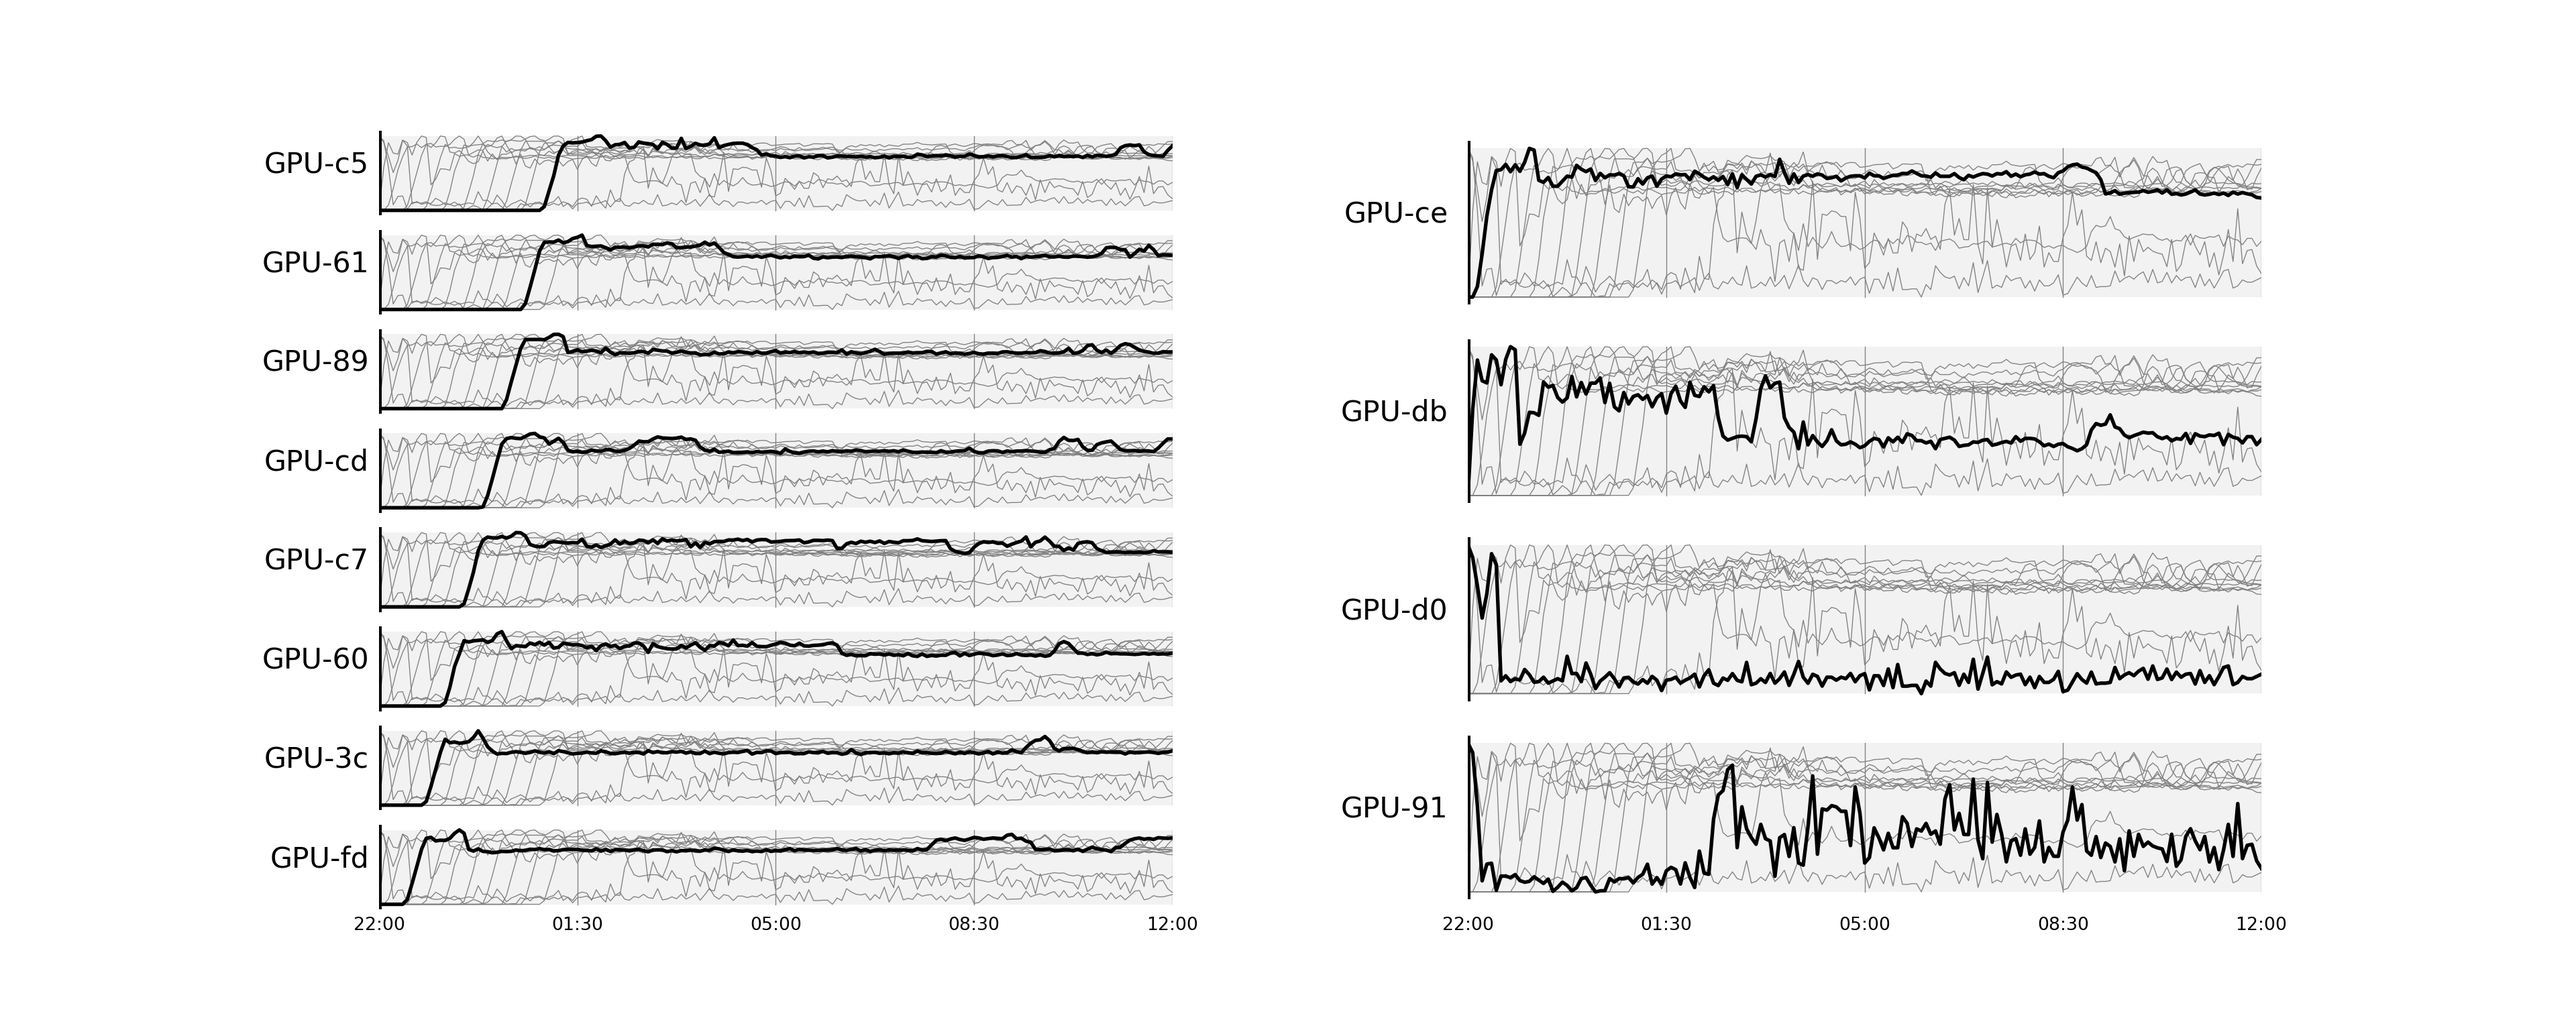
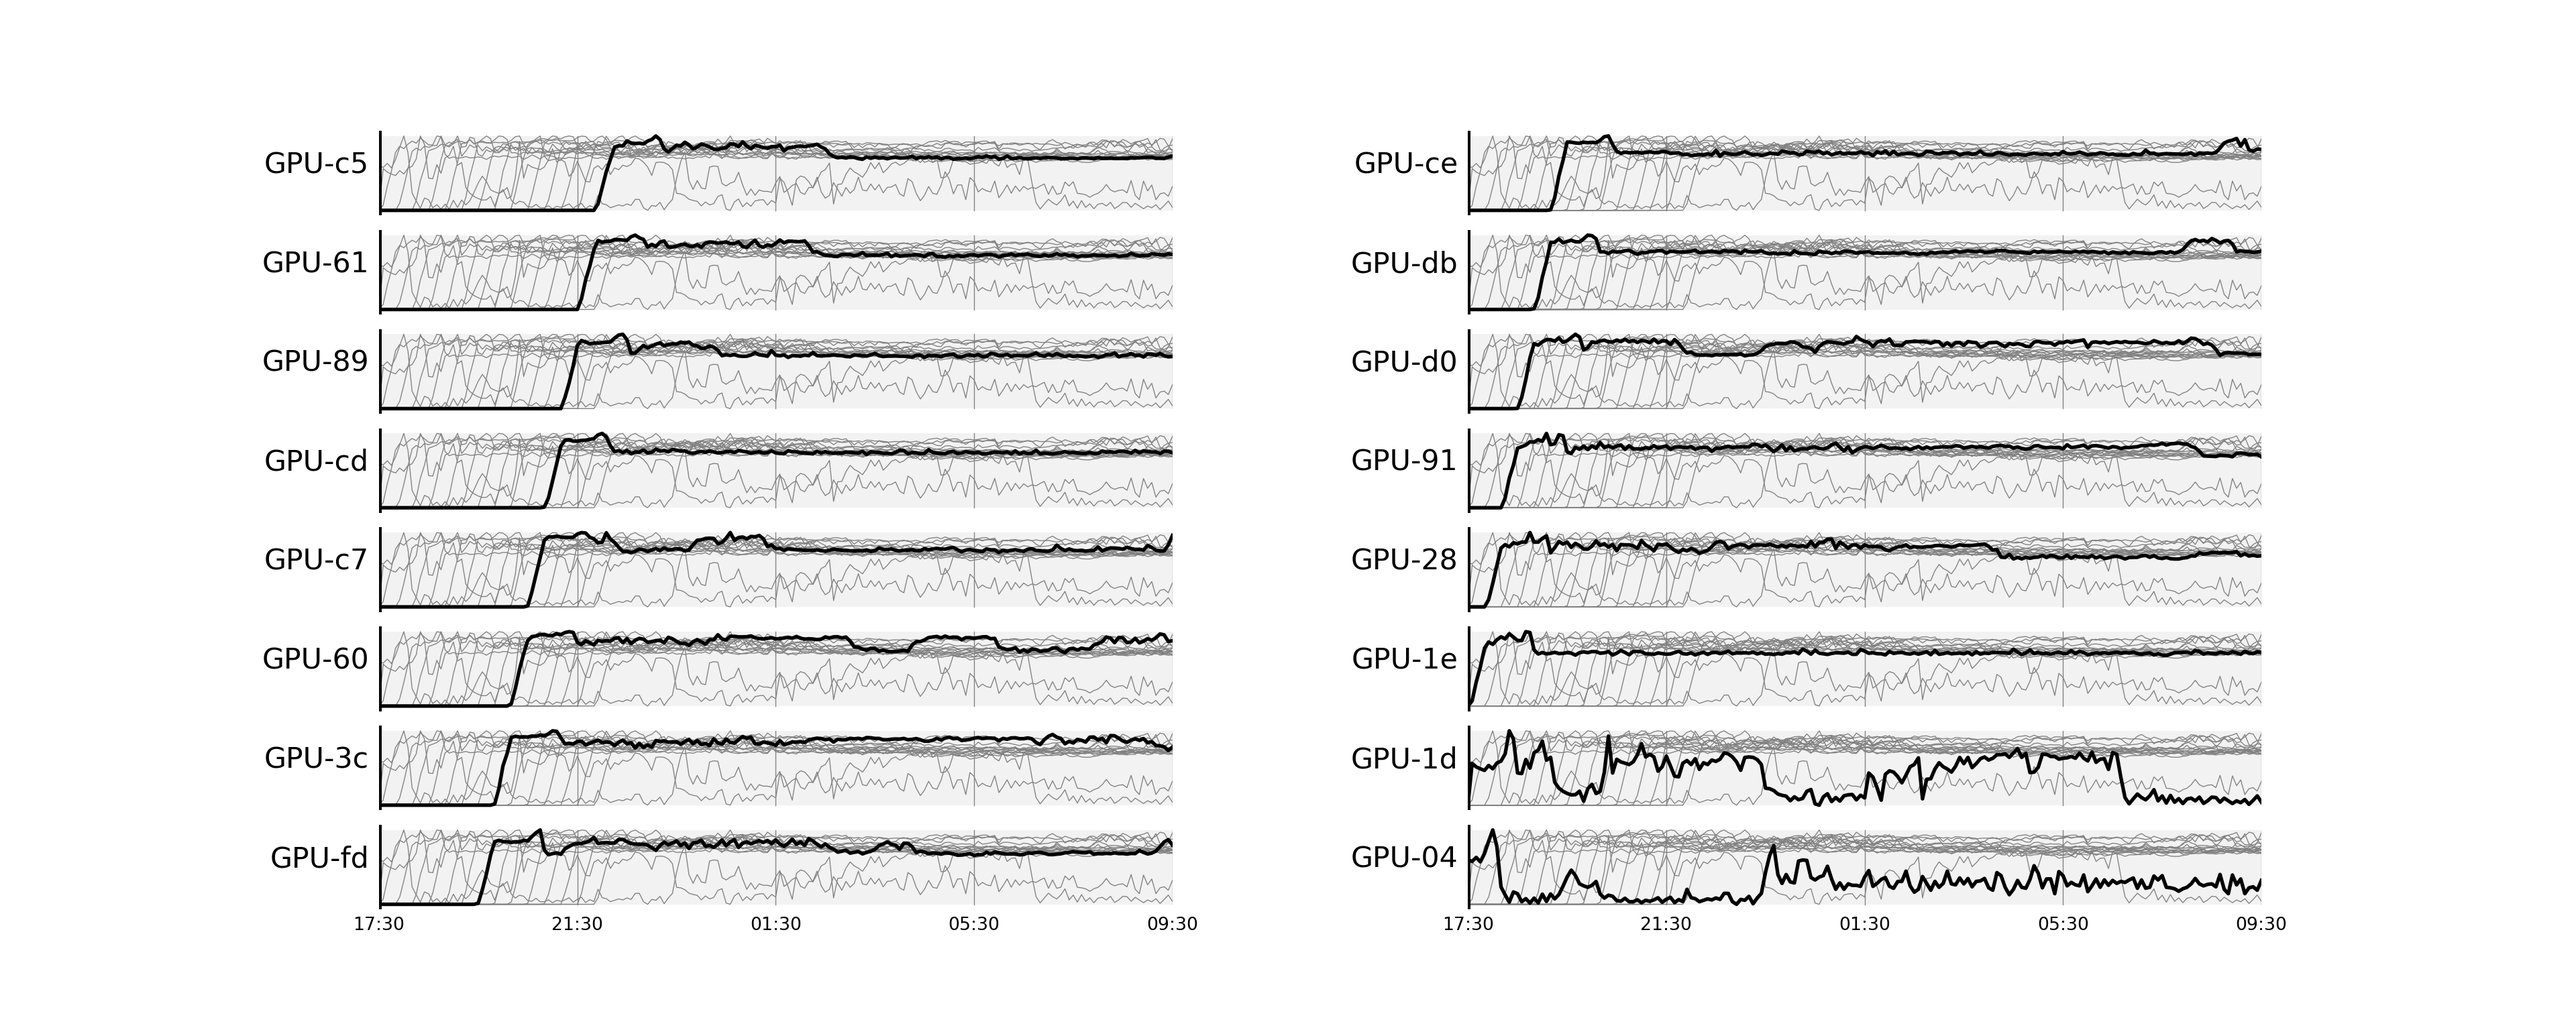
Use 16 GPUs

Changed region(s): [[0.5312, 0.125, 0.875, 0.9062], [0.125, 0.125, 0.4688, 0.9062]]

diff --git a/README.md b/README.md
@@ -13,7 +13,7 @@ This will run in the background and append GPU usage statistics to a `.csv` file
 
 To plot the results from the `.csv` file:
 ```console
-$ python nvml_reader.py --filename nvml_20230531-214237.csv --start_time "2023-05-31 21:00" --end_time "2023-06-01 12:14"
+$ python nvml_reader.py -f nvml_20230531-214237.csv -s "2023-06-01 17:14" -e "2023-06-02 09:38"
 ```
 where you replace the filename, start and end times accordingly.
 
@@ -22,22 +22,26 @@ Sample output:
                                          used_power_W                        used_gpu_memory_MiB                           
                                                   max        mean        std                 max          mean          std
 gpu_uuid                                                                                                                   
-GPU-3c1c67ff-efbc-8c7a-81fa-5a9fa1aacb6e          364  214.449339  91.832207               21119  16218.496035  2293.933416
-GPU-607abfe7-dde7-bbde-e7dc-27df0c083cb3          386  226.164758  97.391799               22099  16539.029956  2770.936672
-GPU-618947d4-f719-3af8-6f9a-5ad6c10717d9          375  222.932159  98.131933               21703  15937.905727  3587.840492
-GPU-8903bbec-70a5-4259-bb82-c5f95d417bfe          381  217.628194  96.276191               20297  15936.474890  3324.847067
-GPU-91cacd85-11ff-b3d6-ce9e-3035c49f91e0          392  238.274890  88.310371               22049  18072.748018   752.316903
-GPU-c55b3036-d54d-a885-7c6c-4238840c836e          402  238.511013  97.264715               21837  16726.790308  3997.791707
-GPU-c7ebcb70-c0f3-376a-7d63-abfd5e4786e5          389  226.874890  95.462765               20845  16768.737445  3116.849760
-GPU-cd37a5b2-e72d-eaa0-231c-f7abadbf1361          374  218.773568  94.937150               20093  16351.597357  3252.064419
-GPU-ce697126-4112-a696-ff6b-1b072cdf03a2          376  225.916300  90.741289               21393  17364.444934  1901.784681
-GPU-d0a28ddd-b3cf-6fb4-72c0-87158ddadd6e          370  224.044053  88.645957               21293  16807.340088   693.161742
-GPU-db57bc49-759c-283b-2e19-09c1a23d2676          380  225.980617  92.864362               21875  17023.218502  1349.911386
-GPU-fd00ec2b-bc85-ee6f-cf6a-a92103974651          373  221.120705  93.295847               20569  16929.327753  2228.389676
-nvml_20230531-214237.csv was recorded over the time interval from 2023-05-31 21:43:37.124133 to 2023-06-01 16:41:26.214446.
+GPU-0435bc0c-f6d1-aea8-c293-34dc683f3bbf          367  224.735926  85.705688               24501  21163.419652  1200.555189
+GPU-1dfe3b5c-79a0-0422-f0d0-b22c6ded0af0          380  210.232344  93.814750               23831  20185.794268  1593.391977
+GPU-1e8ab7c4-1892-d5b2-cff3-27ed68ab0cb0          371  203.268168  90.280413               25917  19064.484135  1914.924620
+GPU-286afb69-cbe3-16d4-845a-95a44a732457          393  217.172979  94.241622               25375  20068.111566  2770.361860
+GPU-3c1c67ff-efbc-8c7a-81fa-5a9fa1aacb6e          369  208.854383  94.394624               23939  17514.416588  3723.680108
+GPU-607abfe7-dde7-bbde-e7dc-27df0c083cb3          386  217.731857  98.854606               23349  17429.276155  3812.925625
+GPU-618947d4-f719-3af8-6f9a-5ad6c10717d9          383  213.703110  99.887138               23893  16419.121583  4225.272359
+GPU-8903bbec-70a5-4259-bb82-c5f95d417bfe          381  209.343544  99.241505               23491  16424.200754  3968.190983
+GPU-91cacd85-11ff-b3d6-ce9e-3035c49f91e0          392  229.511310  90.439730               24775  19014.547597  2374.283574
+GPU-c55b3036-d54d-a885-7c6c-4238840c836e          402  230.864279  98.721442               25533  17333.577757  4708.808932
+GPU-c7ebcb70-c0f3-376a-7d63-abfd5e4786e5          390  217.672479  95.850695               23237  17096.426956  3725.197609
+GPU-cd37a5b2-e72d-eaa0-231c-f7abadbf1361          379  208.976437  95.956346               22979  16674.802074  3792.661263
+GPU-ce697126-4112-a696-ff6b-1b072cdf03a2          379  220.402922  92.214866               22715  17681.816211  2745.141949
+GPU-d0a28ddd-b3cf-6fb4-72c0-87158ddadd6e          374  216.918473  90.321331               24091  18213.516494  2847.337000
+GPU-db57bc49-759c-283b-2e19-09c1a23d2676          385  218.780867  93.981904               23189  17615.459943  2504.511867
+GPU-fd00ec2b-bc85-ee6f-cf6a-a92103974651          381  216.900094  94.578045               23981  17681.326107  3285.807881
+nvml_20230531-214237.csv was recorded over the time interval from 2023-05-31 21:43:37.124133 to 2023-06-02 09:37:46.624458.
 ```
 
-Running `nvml_reader.py` will also generate two plots, one for memory and another for power usage over time. Here is an example for the `fbpic` PIC code running on 12 NVIDIA V100 GPUs:
+Running `nvml_reader.py` will also generate two plots, one for memory and another for power usage over time. Here is an example for the `fbpic` PIC code running on 16 NVIDIA V100 GPUs:
 
 ![Memory usage](plots/mem.png)
 ![Power usage](plots/pow.png)
@@ -46,7 +50,14 @@ _Note:_ By default only `python` processes are tracked, this can be changed insi
 
 ## Installation
 
+Create a virtual environment, either using `conda` or `mamba`, via:
+
 ```console
-$ micromamba create -f env.yml
-$ micromamba activate gpumonenv
+$ conda env create --file environment.yml
+```
+
+or
+
+```console
+$ micromamba create -f environment.yml
 ```
